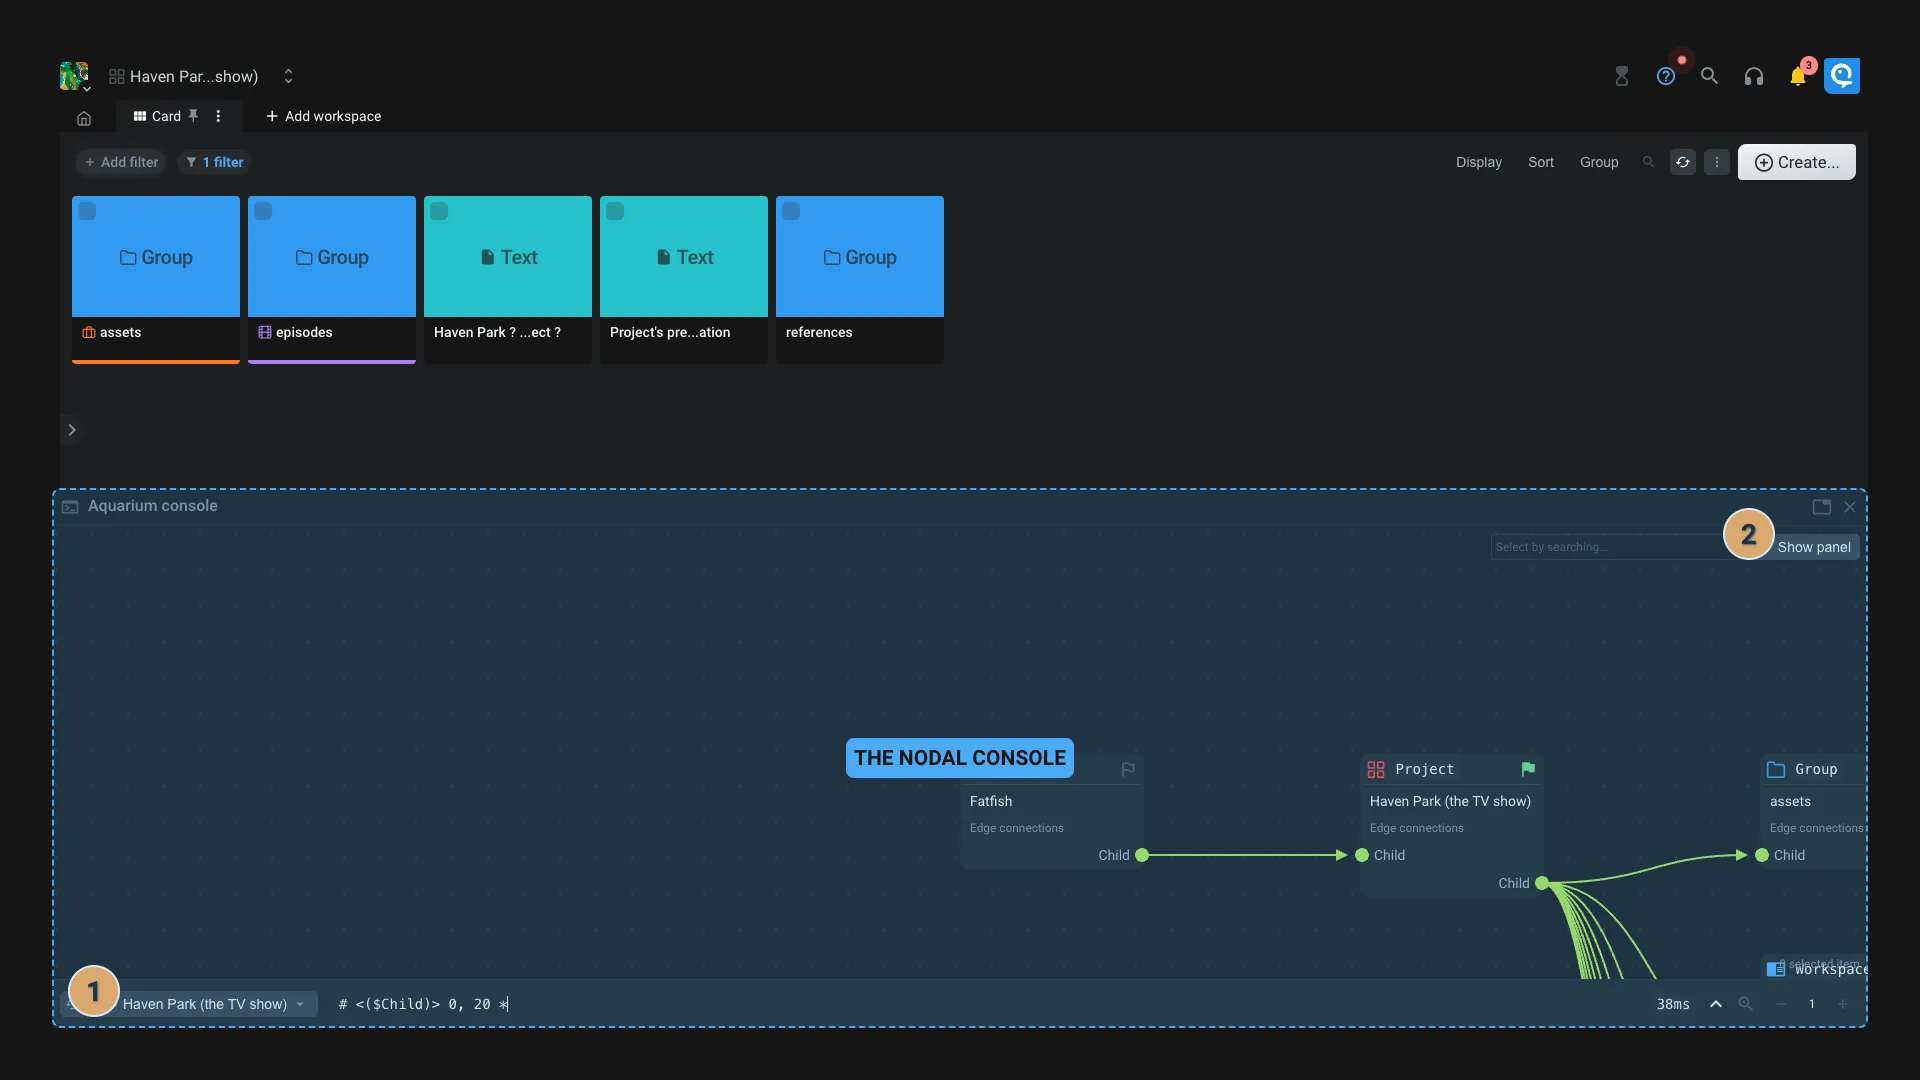
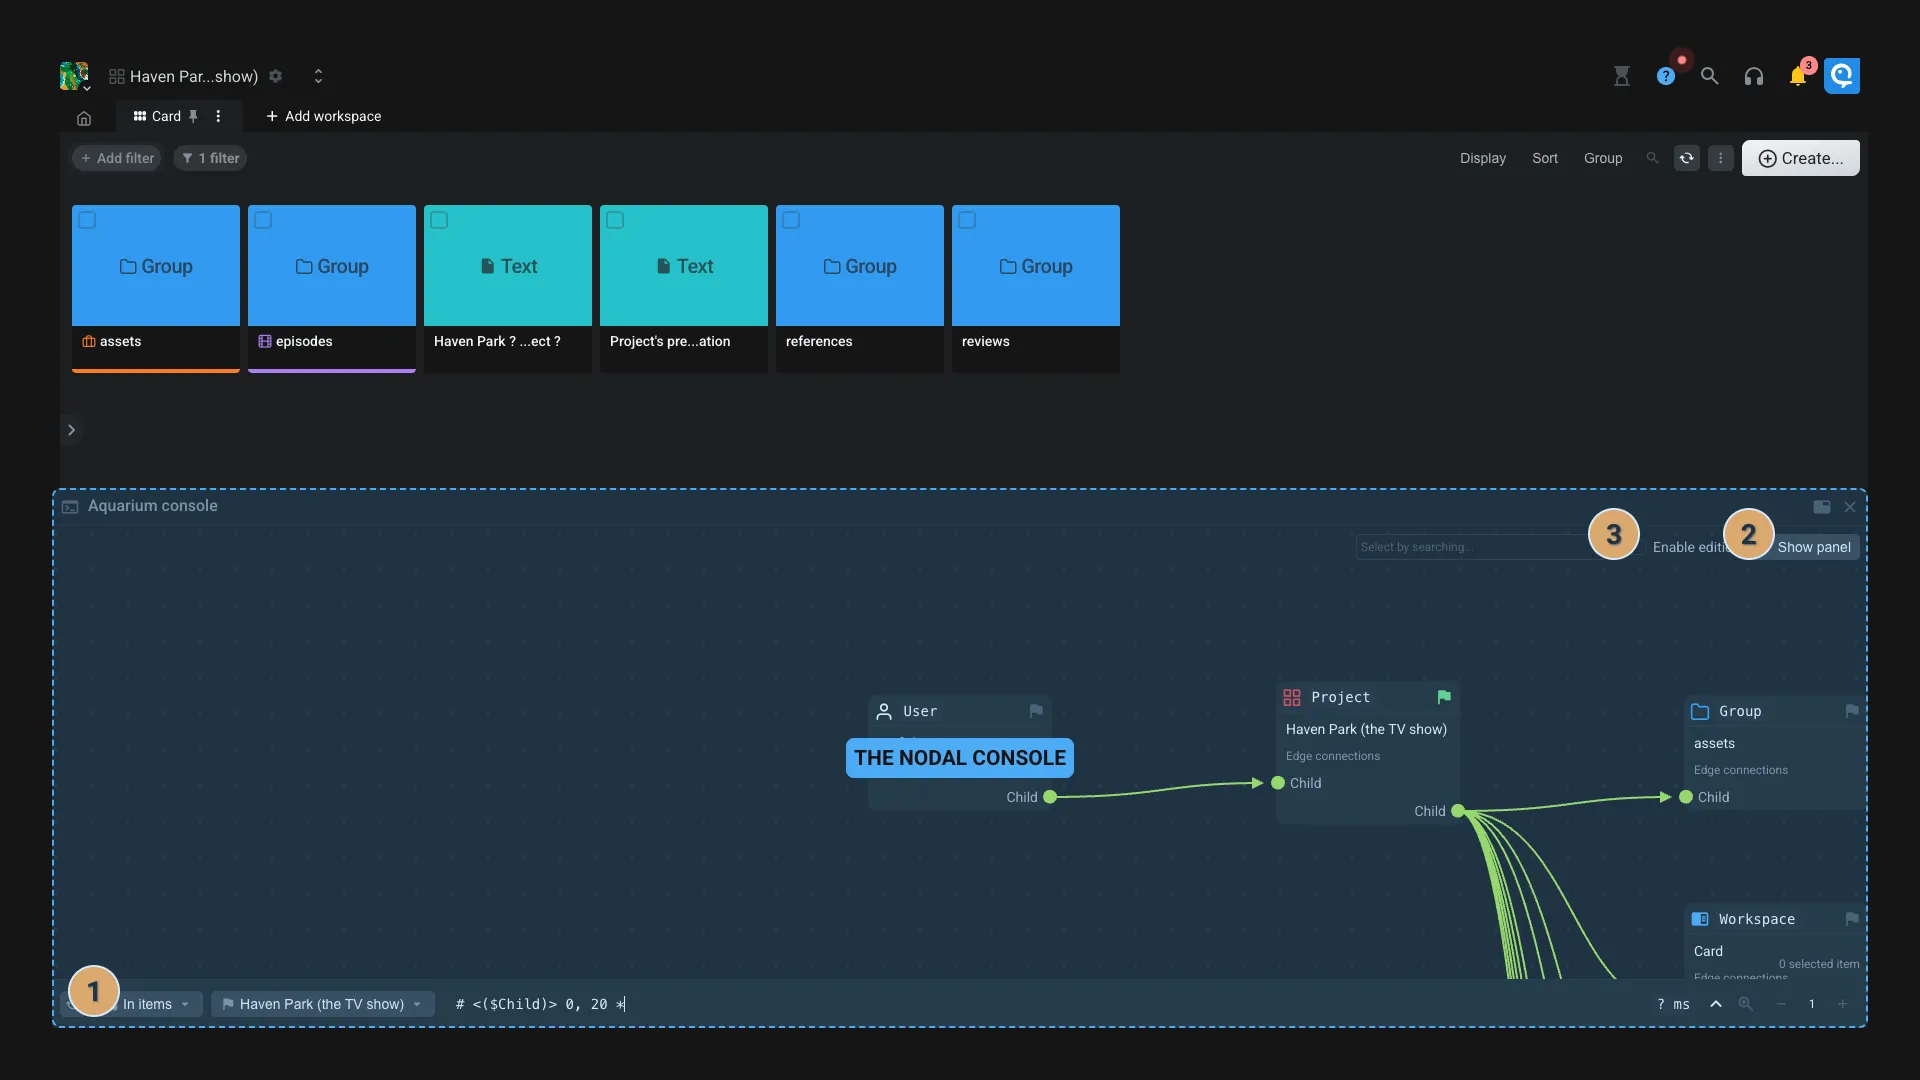
feat(applications): Update applications documentation and screenshots

diff --git a/src/web/applications/command.md b/src/web/applications/command.md
@@ -47,4 +47,7 @@ The console is a powerful tool that allows you to explore the content of your Aq
   1. You can also enter the _key of the item by clicking on the button.
 
 2. **View item/edge data**: By clicking on an item, you can see its data and metadata using the right panel. You can also do the same by selecting an edge.
-- **Custom query**: At the bottom you can change and write your own meshQL query to filter the items.
+3. **Enable edition**: By default the console is in read-only mode. You can enable the edition by toggling the switch on the top right corner.
+   - When edition is enabled you can create new connection between items by dragging from "New edge" entry onto the target item. Once the dropping is done, a dialog wheel appear so you can select the edge type you want. Use the `Other...` to create a custom edge type.
+   - In the right panel, a new button appears to trash an item or delete an edge.
+

diff --git a/src/web/applications/shoteditor.md b/src/web/applications/shoteditor.md
@@ -20,7 +20,7 @@ The Shot editor is the application dedicated to edit [Shot item](../items/shot.m
      - **Attachments**: Display the shot's attachments. You can attach any item, like a media, a whiteboard, ... for references or to share information.
 3. **Chosen display**: Depending on the display mode, the content of the Shot editor will change.
 4. **Shot information**: The Shot's global information :
-     - **Health**: The health of the shot. It is using all the tasks health to determine the shot health.
+     - **Health**: The health of the shot. It is using all the tasks health to determine the shot health. Click on the health icon to get more information task per task.
      - **Tasks statuses**: A progress bar showing the status of the tasks.
      - **Duration**: The total duration of the shot based on the data `frameIn` and `frameOut` of the shot.
      - **Description**: The shot's description.

diff --git a/src/web/applications/asseteditor.md b/src/web/applications/asseteditor.md
@@ -20,7 +20,7 @@ The Asset editor is the application dedicated to edit [Asset item](../items/asse
      - **Attachments**: Display the asset's attachments. You can attach any item, like a media, a whiteboard, ... for references or to share information.
 3. **Chosen display**: Depending on the display mode, the content of the Asset editor will change.
 4. **Asset information**: The Asset's global information :
-     - **Health**: The health of the asset. It is using all the tasks health to determine the asset health.
+     - **Health**: The health of the asset. It is using all the tasks health to determine the asset health. Click on the health icon to get more information task per task.
      - **Tasks statuses**: A progress bar showing the status of the tasks.
      - **Description**: The asset's description.
 

diff --git a/src/web/applications/profile.md b/src/web/applications/profile.md
@@ -26,7 +26,7 @@ You can change the password from here.
 > [!warning]
 > When you change your password, we will ask you to sign-in again. It will also disconnect all your other sessions.
 
-You can also enable and manage the two-factor authentication. You backup code can be manage from here too.
+You can also enable and manage the two-factor authentication (2FA, MFA, ...). You backup code can be manage from here too.
 
 The `Close all session` allow you to disconnect all your sessions and will force the user to sign-in again.
 

diff --git a/src/web/applications/workspacenodaleditor.md b/src/web/applications/workspacenodaleditor.md
@@ -32,3 +32,6 @@ The interface is divided in 3 parts:
 > 2. Select the animation Task.
 > 3. Select the status property.
 > 4. Click on the `Add this filter` button.
+
+> [!info]
+> If you are not able to see any items check the `depth` filter parameter and other filters to see if they are not hiding the items you are looking for.
